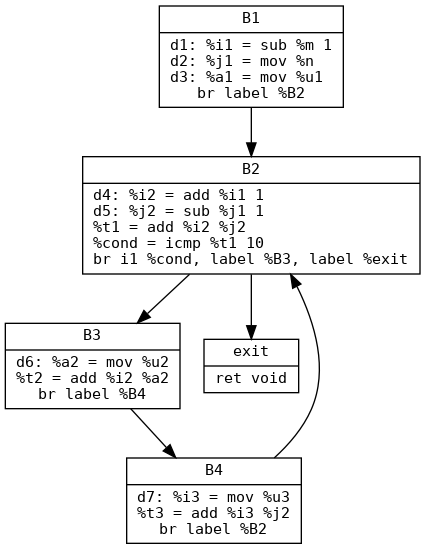
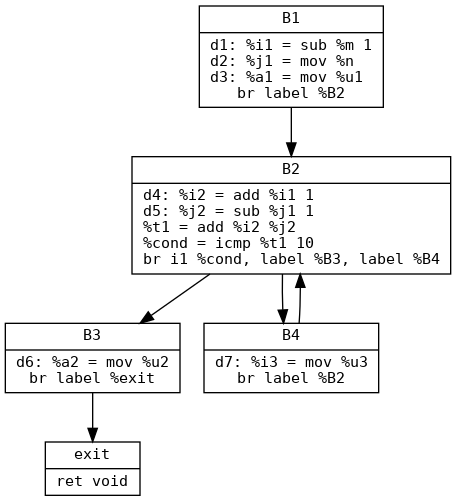
fix: restructure CFG to match Dragon Book diagram (B2→B3/B4 parallel, no B3→B4)

Changed region(s): [[0.0, 0.0, 1.0, 1.0]]

diff --git a/docs/reaching-defs-analysis.md b/docs/reaching-defs-analysis.md
@@ -31,8 +31,10 @@ a = u1;        // d3
 while (1) {
     i = i + 1;  // d4
     j = j - 1;  // d5
-    if (i + j >= 10) break;
-    a = u2;     // d6
+    if (i + j < 10) {
+        a = u2; // d6
+        break;
+    }
     i = u3;     // d7
 }
 ```
@@ -43,21 +45,21 @@ while (1) {
 B1:
   %i1 = sub %m, 1       ; d1: i = m-1
   %j1 = mov %n           ; d2: j = n
-  %a1 = mov %u1             ; d3: a = u1
+  %a1 = mov %u1          ; d3: a = u1
   br label %B2
 
 B2:
   %i2 = add %i1, 1      ; d4: i = i+1
   %j2 = sub %j1, 1      ; d5: j = j-1
   %cond = icmp slt ...   ; 循环条件
-  br %cond, B3, exit     ; 条件分支
+  br %cond, B3, B4       ; true→B3(d6→exit), false→B4(d7→循环)
 
 B3:
-  %a2 = mov %u2             ; d6: a = u2
-  br label %B4
+  %a2 = mov %u2          ; d6: a = u2
+  br label %exit         ; 循环出口
 
 B4:
-  %i3 = mov %u3             ; d7: i = u3
+  %i3 = mov %u3          ; d7: i = u3
   br label %B2           ; 回到循环头
 
 exit:
@@ -70,24 +72,25 @@ exit:
       B1
        |
        v
-  ┌-->B2----->exit
-  |   |
-  |   v
-  |   B3
-  |   |
-  |   v
-  └---B4
+ ┌--->B2------->B3--->exit
+ |     |               ^
+ |     |               |
+ |     v               |
+ └----B4               |
+                       |
+    (= B3 是出口路径, B4→B2 是回边)
 ```
 
 - B2 有两个前驱: **B1** (循环入口) 和 **B4** (循环回边)
-- B3 有一个前驱: **B2**
-- B4 有一个前驱: **B3**
-- exit 有一个前驱: **B2**
+- B2 有两个后继: **B3** (d6→出口) 和 **B4** (d7→循环)
+- B3 有一个前驱: **B2**, 出口到 exit
+- B4 有一个前驱: **B2**
+- exit 有一个前驱: **B3**
 - B1 是入口块 (无前驱)
 
 ## 3. 定值信息
 
-IR 层共 11 条定义指令。分析只关注在 >=2 个块中有定义的变量 (`i`, `j`, `a`)，排除临时变量 `t` 和 `cond`。
+IR 层共 9 条定义指令。分析只关注在 >=2 个块中有定义的变量 (`i`, `j`, `a`)，排除临时变量 `t` 和 `cond`。
 
 | 定义 | 变量 | 所在块 | 指令 |
 |------|------|--------|------|
@@ -144,9 +147,9 @@ while Worklist 非空:
 
 ### Round 1 (初始传播)
 
-**B1** (入口): IN=∅ (无前驱), OUT=Gen[B1]={d1,d2,d3} ***CHANGED***
+**B1** (入口): IN=空集, OUT=Gen[B1]={d1,d2,d3} ***CHANGED***
 
-**B2** (B1→B2,B4→B2):
+**B2** (B1,B4→B2):
 `IN[B2] = OUT[B1] ∪ OUT[B4] = {d1,d2,d3} ∪ {} = {d1,d2,d3}`
 
 ```
@@ -156,7 +159,7 @@ OUT[B2] = Gen[B2] ∪ (IN[B2] - Kill[B2])
         = {d3,d4,d5}  ***CHANGED***
 ```
 
-**B3** (B2→B3):
+**B3** (B2→B3): 条件为真路径 (d6)
 `IN[B3] = OUT[B2] = {d3,d4,d5}`
 
 ```
@@ -165,67 +168,62 @@ OUT[B3] = {d6} ∪ ({d3,d4,d5} - {d3})
         = {d4,d5,d6}  ***CHANGED***
 ```
 
-**B4** (B3→B4):
-`IN[B4] = OUT[B3] = {d4,d5,d6}`
+**B4** (B2→B4): 条件为假路径 (d7)
+`IN[B4] = OUT[B2] = {d3,d4,d5}`
 
 ```
-OUT[B4] = {d7} ∪ ({d4,d5,d6} - {d1,d4})
-        = {d7} ∪ {d5,d6}
-        = {d5,d6,d7}  ***CHANGED***
+OUT[B4] = {d7} ∪ ({d3,d4,d5} - {d1,d4})
+        = {d7} ∪ {d3,d5}
+        = {d3,d5,d7}  ***CHANGED***
 ```
 
-**exit** (B2→exit):
-`IN[exit] = OUT[B2] = {d3,d4,d5}`
+**exit** (B3→exit):
+`IN[exit] = OUT[B3] = {d4,d5,d6}`
 
 ```
-OUT[exit] = {} ∪ ({d3,d4,d5} - {})
-          = {d3,d4,d5}  ***CHANGED***
+OUT[exit] = {} ∪ ({d4,d5,d6} - {})
+          = {d4,d5,d6}  ***CHANGED***
 ```
 
-**Round 1 后**: B2、B3、B4、exit 进入下一轮 (它们的后继受 OUT 变化影响)
+**Round 1 后**: B2、B3、B4、exit 的 OUT 均变化，后继入队。
 
-### Round 2 (回边传播)
+### Round 2 (回边生效, 不动点确认)
 
-**B2** (B1,B4→B2): 关键点在 B4 的 OUT 变了!
+**B2** (B1,B4→B2): B4 的 OUT 变了!
 
 ```
 IN[B2] = OUT[B1] ∪ OUT[B4]
-       = {d1,d2,d3} ∪ {d5,d6,d7}
-       = {d1,d2,d3,d5,d6,d7}  ← 新增 d5,d6,d7!
+       = {d1,d2,d3} ∪ {d3,d5,d7}
+       = {d1,d2,d3,d5,d7}  ← 回边新增 d5,d7 (无 d6, d6 走 B3→exit 出口)
 
-OUT[B2] = {d4,d5} ∪ ({d1,d2,d3,d5,d6,d7} - {d1,d2,d7})
-        = {d4,d5} ∪ {d3,d5,d6}
-        = {d3,d4,d5,d6}  ***CHANGED***
+OUT[B2] = {d4,d5} ∪ ({d1,d2,d3,d5,d7} - {d1,d2,d7})
+        = {d4,d5} ∪ {d3,d5}
+        = {d3,d4,d5}  (unchanged)
 ```
 
-**B3** (B2→B3):
-`IN[B3] = {d3,d4,d5,d6}` → `OUT[B3] = {d4,d5,d6}` (unchanged)
+IN 变了 (d5,d7 回边到达)，但 OUT 不变。
 
-**B4** (B3→B4):
-`IN[B4] = {d4,d5,d6}` → `OUT[B4] = {d5,d6,d7}` (unchanged)
+**B3** (B2→B3): `IN[B3] = {d3,d4,d5}` → `OUT[B3] = {d4,d5,d6}` (unchanged)
 
-**exit** (B2→exit):
-`IN[exit] = {d3,d4,d5,d6}` → `OUT[exit] = {d3,d4,d5,d6}` ***CHANGED***
+**B4** (B2→B4): `IN[B4] = {d3,d4,d5}` → `OUT[B4] = {d3,d5,d7}` (unchanged)
 
-B2 和 exit 的 OUT 变了，后继入队。
+**exit** (B3→exit): `IN[exit] = {d4,d5,d6}` → `OUT[exit] = {d4,d5,d6}` (unchanged)
 
-### Round 3 (最终确认)
-
-处理 B3, exit → 全部 unchanged。worklist 空，不动点达成。
+所有 OUT 不再变化 → 不动点达成。Worklist 空，收敛。
 
 ## 6. 状态变化对比表
 
 ```
-Block   Round 0    Round 1             Round 2                  Round 3
-         IN  OUT    IN        OUT       IN                    OUT         IN                    OUT
-B1       {}  {}     {}        *{1,2,3}  {}                    {1,2,3}     {}                    {1,2,3}
-B2       {}  {}     {1,2,3}   *{3,4,5}  {1,2,3,5,6,7}        *{3,4,5,6}  {1,2,3,5,6,7}        {3,4,5,6}
-B3       {}  {}     {3,4,5}   *{4,5,6}  {3,4,5,6}             {4,5,6}     {3,4,5,6}            {4,5,6}
-B4       {}  {}     {4,5,6}   *{5,6,7}  {4,5,6}               {5,6,7}     {4,5,6}              {5,6,7}
-exit     {}  {}     {3,4,5}   *{3,4,5}  {3,4,5,6}             *{3,4,5,6}  {3,4,5,6}            {3,4,5,6}
+Block   Round 0    Round 1             Round 2                
+         IN  OUT    IN        OUT       IN              OUT    
+B1       {}  {}     {}        *{1,2,3}  {}              {1,2,3}
+B2       {}  {}     {1,2,3}   *{3,4,5}  {1,2,3,5,7}    {3,4,5}
+B3       {}  {}     {3,4,5}   *{4,5,6}  {3,4,5}        {4,5,6}
+B4       {}  {}     {3,4,5}   *{3,5,7}  {3,4,5}        {3,5,7}
+exit     {}  {}     {4,5,6}   *{4,5,6}  {4,5,6}        {4,5,6}
 ```
 
-`*` 标记表示本轮 OUT 发生变化。Round 3 无变化 = 不动点达成。共处理 11 个块 (固定顺序需 15 次)。
+`*` 标记表示本轮 OUT 发生变化。Round 2 无 OUT 变化 = 不动点达成。共处理 9 个块。
 
 ### Bit Vector 表示
 
@@ -236,14 +234,14 @@ exit     {}  {}     {3,4,5}   *{3,4,5}  {3,4,5,6}             *{3,4,5,6}  {3,4,5
             ---------------------    -----------
 IN[B1]    =  0  0  0  0  0  0  0  = {}
 OUT[B1]   =  1  1  1  0  0  0  0  = {d1, d2, d3}
-IN[B2]    =  1  1  1  0  1  1  1  = {d1, d2, d3, d5, d6, d7}
-OUT[B2]   =  0  0  1  1  1  1  0  = {d3, d4, d5, d6}
-IN[B3]    =  0  0  1  1  1  1  0  = {d3, d4, d5, d6}
+IN[B2]    =  1  1  1  0  1  0  1  = {d1, d2, d3, d5, d7}
+OUT[B2]   =  0  0  1  1  1  0  0  = {d3, d4, d5}
+IN[B3]    =  0  0  1  1  1  0  0  = {d3, d4, d5}
 OUT[B3]   =  0  0  0  1  1  1  0  = {d4, d5, d6}
-IN[B4]    =  0  0  0  1  1  1  0  = {d4, d5, d6}
-OUT[B4]   =  0  0  0  0  1  1  1  = {d5, d6, d7}
-IN[exit]  =  0  0  1  1  1  1  0  = {d3, d4, d5, d6}
-OUT[exit] =  0  0  1  1  1  1  0  = {d3, d4, d5, d6}
+IN[B4]    =  0  0  1  1  1  0  0  = {d3, d4, d5}
+OUT[B4]   =  0  0  1  0  1  0  1  = {d3, d5, d7}
+IN[exit]  =  0  0  0  1  1  1  0  = {d4, d5, d6}
+OUT[exit] =  0  0  0  1  1  1  0  = {d4, d5, d6}
 ```
 
 ### 迭代收敛过程 (Bit Vector 推演)
@@ -258,29 +256,21 @@ B3       0  0  0  0  0  0  0   {}              {}
 B4       0  0  0  0  0  0  0   {}              {}
 exit     0  0  0  0  0  0  0   {}              {}
 
-Round 1: 第一次传播 (B1→B2→B3→B4→exit, B4 回边尚未生效)
+Round 1: 第一次传播
                           IN                    OUT
 B1       0  0  0  0  0  0  0  {}                  1  1  1  0  0  0  0  {d1,d2,d3}        ← Gen[B1]
 B2       1  1  1  0  0  0  0  {d1,d2,d3}          0  0  1  1  1  0  0  {d3,d4,d5}        ← d1,d2 被 kill
 B3       0  0  1  1  1  0  0  {d3,d4,d5}          0  0  0  1  1  1  0  {d4,d5,d6}        ← d3 被 kill, +d6
-B4       0  0  0  1  1  1  0  {d4,d5,d6}          0  0  0  0  1  1  1  {d5,d6,d7}        ← d1,d4 被 kill, +d7
-exit     0  0  1  1  1  0  0  {d3,d4,d5}          0  0  1  1  1  0  0  {d3,d4,d5}        
+B4       0  0  1  1  1  0  0  {d3,d4,d5}          0  0  1  0  1  0  1  {d3,d5,d7}        ← d1,d4 被 kill, +d7
+exit     0  0  0  1  1  1  0  {d4,d5,d6}          0  0  0  1  1  1  0  {d4,d5,d6}        
 
-Round 2: 回边生效 (B4→B2, 新增 d5,d6,d7)
+Round 2: 不动点 (B2 IN 变但 OUT 不变 → 收敛)
                           IN                    OUT
 B1       0  0  0  0  0  0  0  {}                  1  1  1  0  0  0  0  {d1,d2,d3}
-B2       1  1  1  0  1  1  1  {d1,d2,d3,d5,d6,d7}  0  0  1  1  1  1  0  {d3,d4,d5,d6}    ← IN 新增 d5,d6,d7
-B3       0  0  1  1  1  1  0  {d3,d4,d5,d6}       0  0  0  1  1  1  0  {d4,d5,d6}
-B4       0  0  0  1  1  1  0  {d4,d5,d6}          0  0  0  0  1  1  1  {d5,d6,d7}
-exit     0  0  1  1  1  1  0  {d3,d4,d5,d6}       0  0  1  1  1  1  0  {d3,d4,d5,d6}    ← 加入 d6
-
-Round 3: 不动点 (无变化 → 收敛)
-                          IN                    OUT
-B1       0  0  0  0  0  0  0  {}                  1  1  1  0  0  0  0  {d1,d2,d3}
-B2       1  1  1  0  1  1  1  {d1,d2,d3,d5,d6,d7}  0  0  1  1  1  1  0  {d3,d4,d5,d6}    ← 不动
-B3       0  0  1  1  1  1  0  {d3,d4,d5,d6}       0  0  0  1  1  1  0  {d4,d5,d6}
-B4       0  0  0  1  1  1  0  {d4,d5,d6}          0  0  0  0  1  1  1  {d5,d6,d7}
-exit     0  0  1  1  1  1  0  {d3,d4,d5,d6}       0  0  1  1  1  1  0  {d3,d4,d5,d6}
+B2       1  1  1  0  1  0  1  {d1,d2,d3,d5,d7}    0  0  1  1  1  0  0  {d3,d4,d5}        ← IN 新增 d5,d7; OUT 未变
+B3       0  0  1  1  1  0  0  {d3,d4,d5}          0  0  0  1  1  1  0  {d4,d5,d6}
+B4       0  0  1  1  1  0  0  {d3,d4,d5}          0  0  1  0  1  0  1  {d3,d5,d7}
+exit     0  0  0  1  1  1  0  {d4,d5,d6}          0  0  0  1  1  1  0  {d4,d5,d6}
 ```
 
 ### 关键位向量操作示例
@@ -289,28 +279,28 @@ exit     0  0  1  1  1  1  0  {d3,d4,d5,d6}       0  0  1  1  1  1  0  {d3,d4,d5
 
 ```
 IN[B2]  = OUT[B1] ∪ OUT[B4]
-        = [1 1 1 0 0 0 0] ∪ [0 0 0 0 1 1 1]
-        = [1 1 1 0 1 1 1]                  ← 新增 d5,d6,d7 来自回边
+        = [1 1 1 0 0 0 0] ∪ [0 0 1 0 1 0 1]
+        = [1 1 1 0 1 0 1]                  ← 回边新增 d5,d7 (d6 走出口, 不回到 B2)
 
-IN - Kill = [1 1 1 0 1 1 1] - [1 1 0 0 0 0 1]
-          = [0 0 1 0 1 1 0]                  ← d1,d2,d7 被杀死
+IN - Kill = [1 1 1 0 1 0 1] - [1 1 0 0 0 0 1]
+          = [0 0 1 0 1 0 0]                  ← d1,d2,d7 被杀死 (d5 保留)
 
 OUT[B2] = Gen[B2] ∪ (IN - Kill)
-        = [0 0 0 1 1 0 0] ∪ [0 0 1 0 1 1 0]
-        = [0 0 1 1 1 1 0] = {d3, d4, d5, d6}
+        = [0 0 0 1 1 0 0] ∪ [0 0 1 0 1 0 0]
+        = [0 0 1 1 1 0 0] = {d3, d4, d5}
 ```
 
 **B4 的 Kill 效应:**
 
-B4 定义了 d7(i)，Kill = {d1, d4}。所以进入 B4 前可见的 d1(i) 和 d4(i) 被杀死:
+B4 定义了 d7(i)，Kill = {d1, d4}。
 
 ```
-IN[B4]  = OUT[B3] = [0 0 0 1 1 1 0]     ← 含 d4(i)
-IN - Kill = [0 0 0 1 1 1 0] - [1 0 0 1 0 0 0]
-          = [0 0 0 0 1 1 0]               ← d1,d4 已被移除
+IN[B4]  = OUT[B2] = [0 0 1 1 1 0 0]     ← 含 d3(a), d4(i), d5(j)
+IN - Kill = [0 0 1 1 1 0 0] - [1 0 0 1 0 0 0]
+          = [0 0 1 0 1 0 0]               ← d1,d4 已被移除
 OUT[B4] = Gen[B4] ∪ (IN - Kill)
-        = [0 0 0 0 0 0 1] ∪ [0 0 0 0 1 1 0]
-        = [0 0 0 0 1 1 1] = {d5, d6, d7}
+        = [0 0 0 0 0 0 1] ∪ [0 0 1 0 1 0 0]
+        = [0 0 1 0 1 0 1] = {d3, d5, d7}
 ```
 
 ## 7. 最终解析
@@ -318,14 +308,15 @@ OUT[B4] = Gen[B4] ∪ (IN - Kill)
 | 基本块入口 | 到达的定值 | 解释 |
 |-----------|-----------|------|
 | B1 入口   | (无)      | 程序入口，无定值到达 |
-| B2 入口   | d1(i), d2(j), d3(a), d5(j), d6(a), d7(i) | B1 的三个定值 + B4 的 d5(经 B2→B3→B4→B2)、d7(同路径) |
-| B3 入口   | d3(a), d4(i), d5(j), d6(a) | B2 出口的 d3,d4,d5 + B3 自身的 d6 |
-| B4 入口   | d4(i), d5(j), d6(a) | B3 出口的 d4,d5,d6 (d7 尚未到达) |
-| exit 入口 | d3(a), d4(i), d5(j), d6(a) | B2 出口定值 (循环出口路径) |
+| B2 入口   | d1(i), d2(j), d3(a), d5(j), d7(i) | B1 的三个定值 + B4 回边的 d5(j) 和 d7(i)。d6(a) 不在 B2 入口——它走 B3→exit 出口路径，不回 B2 |
+| B3 入口   | d3(a), d4(i), d5(j) | B2 出口的 d3,d4,d5 |
+| B4 入口   | d3(a), d4(i), d5(j) | B2 出口的 d3,d4,d5 (d4 将被 B4 的 d7 kill) |
+| exit 入口 | d4(i), d5(j), d6(a) | B3 出口定值 |
 
 ### 关键观察
 
-- **B2 入口可到达 d5(j) 和 d7(i)**: 来自循环回边 (B4→B2)。这证明了迭代算法的必要性——第一轮时 B4 的 OUT 为空，第二轮通过回边才把 d5/d6/d7 传播到 B2。
+- **B2 入口可到达 d5(j) 和 d7(i)**: 来自循环回边 (B4→B2)。第一轮时 B4 的 OUT 为空，第二轮通过回边才把 d5/d7 传播到 B2。
+- **d6(a) 不在 B2 入口**: d6 在 B3 中定义，B3 直接跳转到 exit，d6 不沿回边回到 B2。这是与顺序结构 (B3→B4→B2) 的关键区别。
 - **d1(i) 被 B4 杀死**: B4 定义了 d7(i)，杀死 d1。所以 B4 出口不含 d1。
 - **d4(i) 被 B4 杀死**: 同理，B4 的 Kill 包含 d1 和 d4，所以 B4 出口只有 d7(i)。
 
@@ -337,27 +328,21 @@ OUT[B4] = Gen[B4] ∪ (IN - Kill)
 |--------|------|---------|------|
 | B2:0 `%i1` | i | {d1, d7} | B2 入口有 d1(B1) 和 d7(B4回边) |
 | B2:1 `%j1` | j | {d2, d5} | B2 入口有 d2(B1) 和 d5(B2本身经回边) |
-| B2:2 `%i2` | i | {d4} | d1 和 d7 被 B2:0 的 d4 定义 kill 了 |
-| B2:2 `%j2` | j | {d5} | d2 被 B2:1 的 d5 定义 kill 了 |
-| B3:1 `%i2` | i | {d4} | B3 入口只有 d4(i) |
-| B3:1 `%a2` | a | {d6} | B3:0 刚刚定义了 a(d6) |
-| B4:1 `%i3` | i | {d7} | B4:0 刚定义 i(d7)，kill 了 d1/d4 |
-| B4:1 `%j2` | j | {d5} | B4 入口有 d5(j)，未被 kill |
-| exit:0 `%i1` | i | {d4} | exit 入口只有 d4(i)，d1 和 d7 被 B2 kill |
-| exit:0 `%i2` | i | {d4} | 同上 |
+| B2:2 `%i2` | i | {d4} | d1 和 d7 被 B2:0 的 d4 kill |
+| B2:2 `%j2` | j | {d5} | d2 被 B2:1 的 d5 kill |
 
 ### 块内 kill 示例 (B2)
 
 ```
-B2 入口 IN = {d1(i), d2(j), d3(a), d5(j), d6(a), d7(i)}
+B2 入口 IN = {d1(i), d2(j), d3(a), d5(j), d7(i)}
 
 B2:0  %i2 = add %i1, 1    → use %i1(i) 看到 {d1, d7}
-      定义 i(d4)            → kill i(d1,d4,d7), 加入 d4
-      当前 reaching: {d2, d3, d4, d5, d6}
+       定义 i(d4)            → kill i(d1,d4,d7), 加入 d4
+       当前 reaching: {d2, d3, d4, d5}
 
 B2:1  %j2 = sub %j1, 1    → use %j1(j) 看到 {d2, d5}
-      定义 j(d5)            → kill j(d2,d5), 加入 d5
-      当前 reaching: {d3, d4, d5, d6}
+       定义 j(d5)            → kill j(d2,d5), 加入 d5
+       当前 reaching: {d3, d4, d5}
 
 B2:2  %t1 = add %i2, %j2  → use %i2(i) 看到 {d4}  (d1,d7 已 kill)
                            → use %j2(j) 看到 {d5}  (d2 已 kill)
@@ -365,10 +350,15 @@ B2:2  %t1 = add %i2, %j2  → use %i2(i) 看到 {d4}  (d1,d7 已 kill)
 
 ## 9. 算法复杂度
 
-| 指标 | 固定顺序迭代 | Worklist 算法 |
-|------|------------|--------------|
-| 处理块数 (本例) | 15 (5块×3轮) | 11 (跳过不变块) |
-| 每轮处理 | 所有块 | 仅可能变化的块 |
-| 适用场景 | 简单教学 | 大型 CFG 加速明显 |
+- **时间复杂度**: O(N × D) 最坏，其中 N = 块数，D = 定值数。Worklist 优化后实际远小于上界。
+- **空间复杂度**: O(N × D) 存储 IN/OUT 向量。
+- **收敛保证**: 定值集单调增加，有界 (最多所有定值)，必然收敛。
 
-Worklist 算法只在块的 OUT 改变时将其后继入队，Round 3 只处理了 2 个块即确认收敛。
+## 10. 与固定顺序迭代对比
+
+| 维度 | 固定顺序 | Worklist |
+|------|---------|----------|
+| 每轮策略 | 遍历所有块 | 仅处理有变化的后续块 |
+| 本例处理块数 | 15 | 9 |
+| 收敛检测 | 需额外全扫描 | 自然终止 (worklist 空) |
+| 适用场景 | 简单 CFG | 大型 CFG / 稀疏变化 |